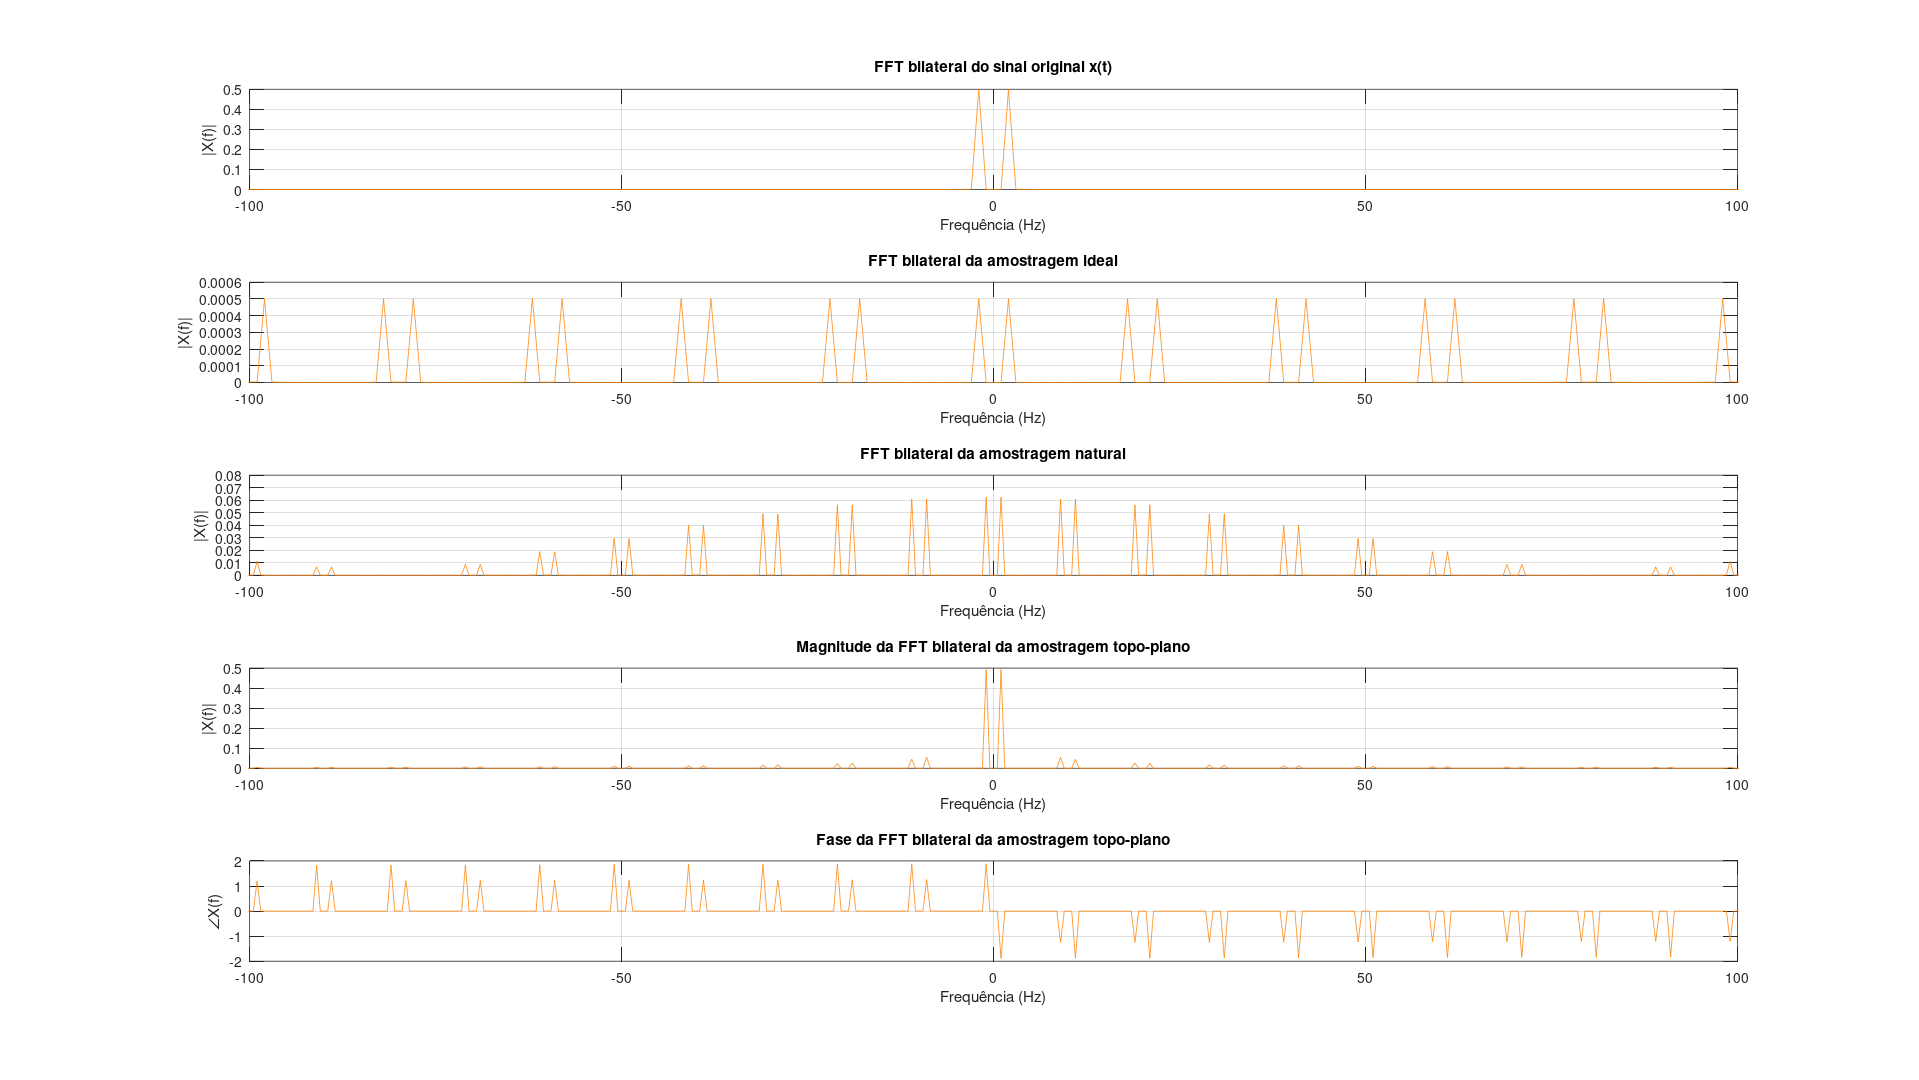
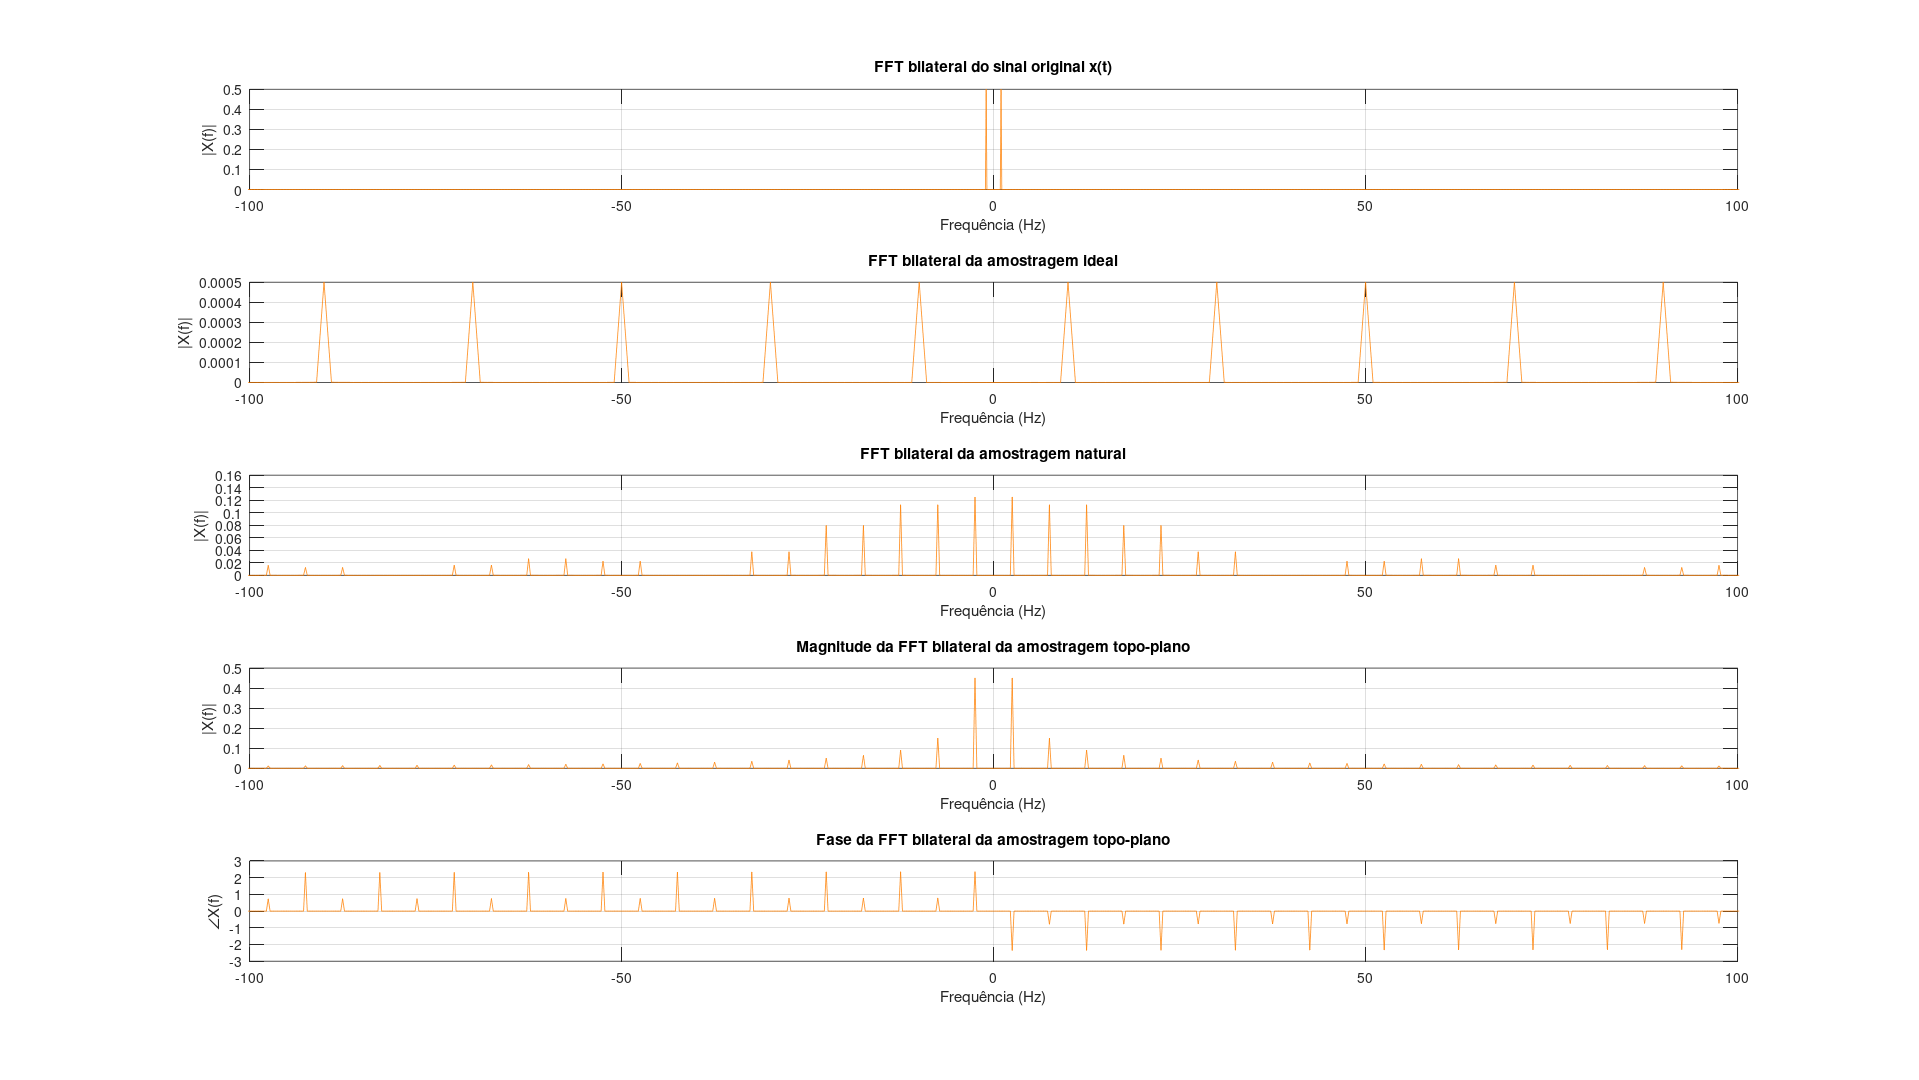
fix: alteração na frequência da senoide

diff --git a/main.m b/main.m
@@ -4,9 +4,9 @@ clear all; clc;
 
 addpath(genpath('src'));
 
-f = 2;
+f = 10;
 phi = 0;
-Fs = 20;
+Fs = 40;
 
 x = @(t) sin(2*pi*f*t + phi);
 % debug
@@ -17,7 +17,7 @@ Ts = 1/Fs;
 Tf = 1;
 
 % Sinal "contínuo" numericamente
-t_continuo = Ti:1/1000:Tf;
+t_continuo = Ti:1/f/1000:Tf;
 x_continuo = x(t_continuo);
 
 % Amostragem ideal
@@ -25,11 +25,11 @@ x_continuo = x(t_continuo);
 [xs_ideal_continuo, ts_ideal_continuo] = discreto_para_impulsos(xs_ideal, ts_ideal, Ti, Tf, Ts/1000);
 
 % Amostragem natural
-wn = Ts/8;
+wn = Ts/4;
 [xs_natural, ts_natural] = amostragem_natural(x, Fs, wn, Ti, Tf);
 
-% Amostragem flat-top
-wft = Ts + 1e-6;
+% Amostragem flat-top (sample and hold)
+wft = Ts;
 [xs_flat_top, ts_flat_top] = amostragem_flattop(x, Fs, wft, Ti, Tf);
 
 % Plot
